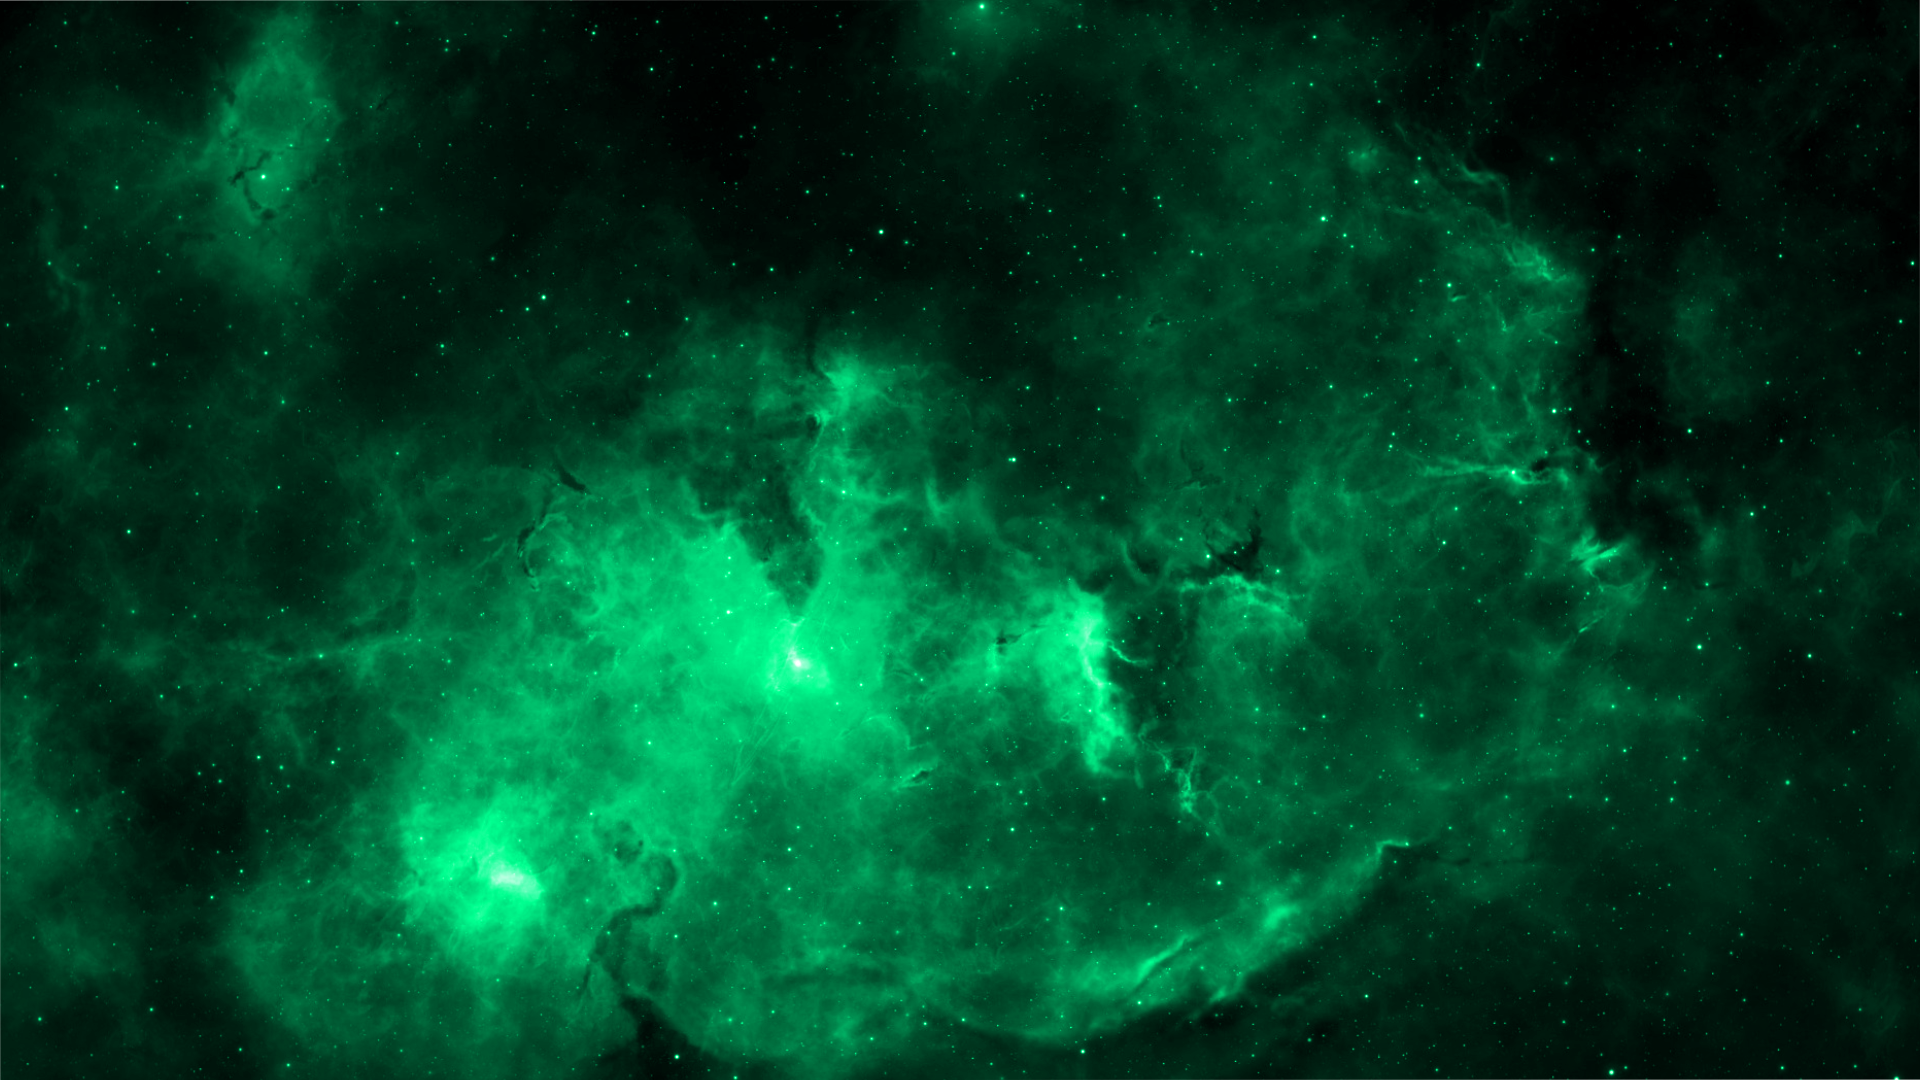
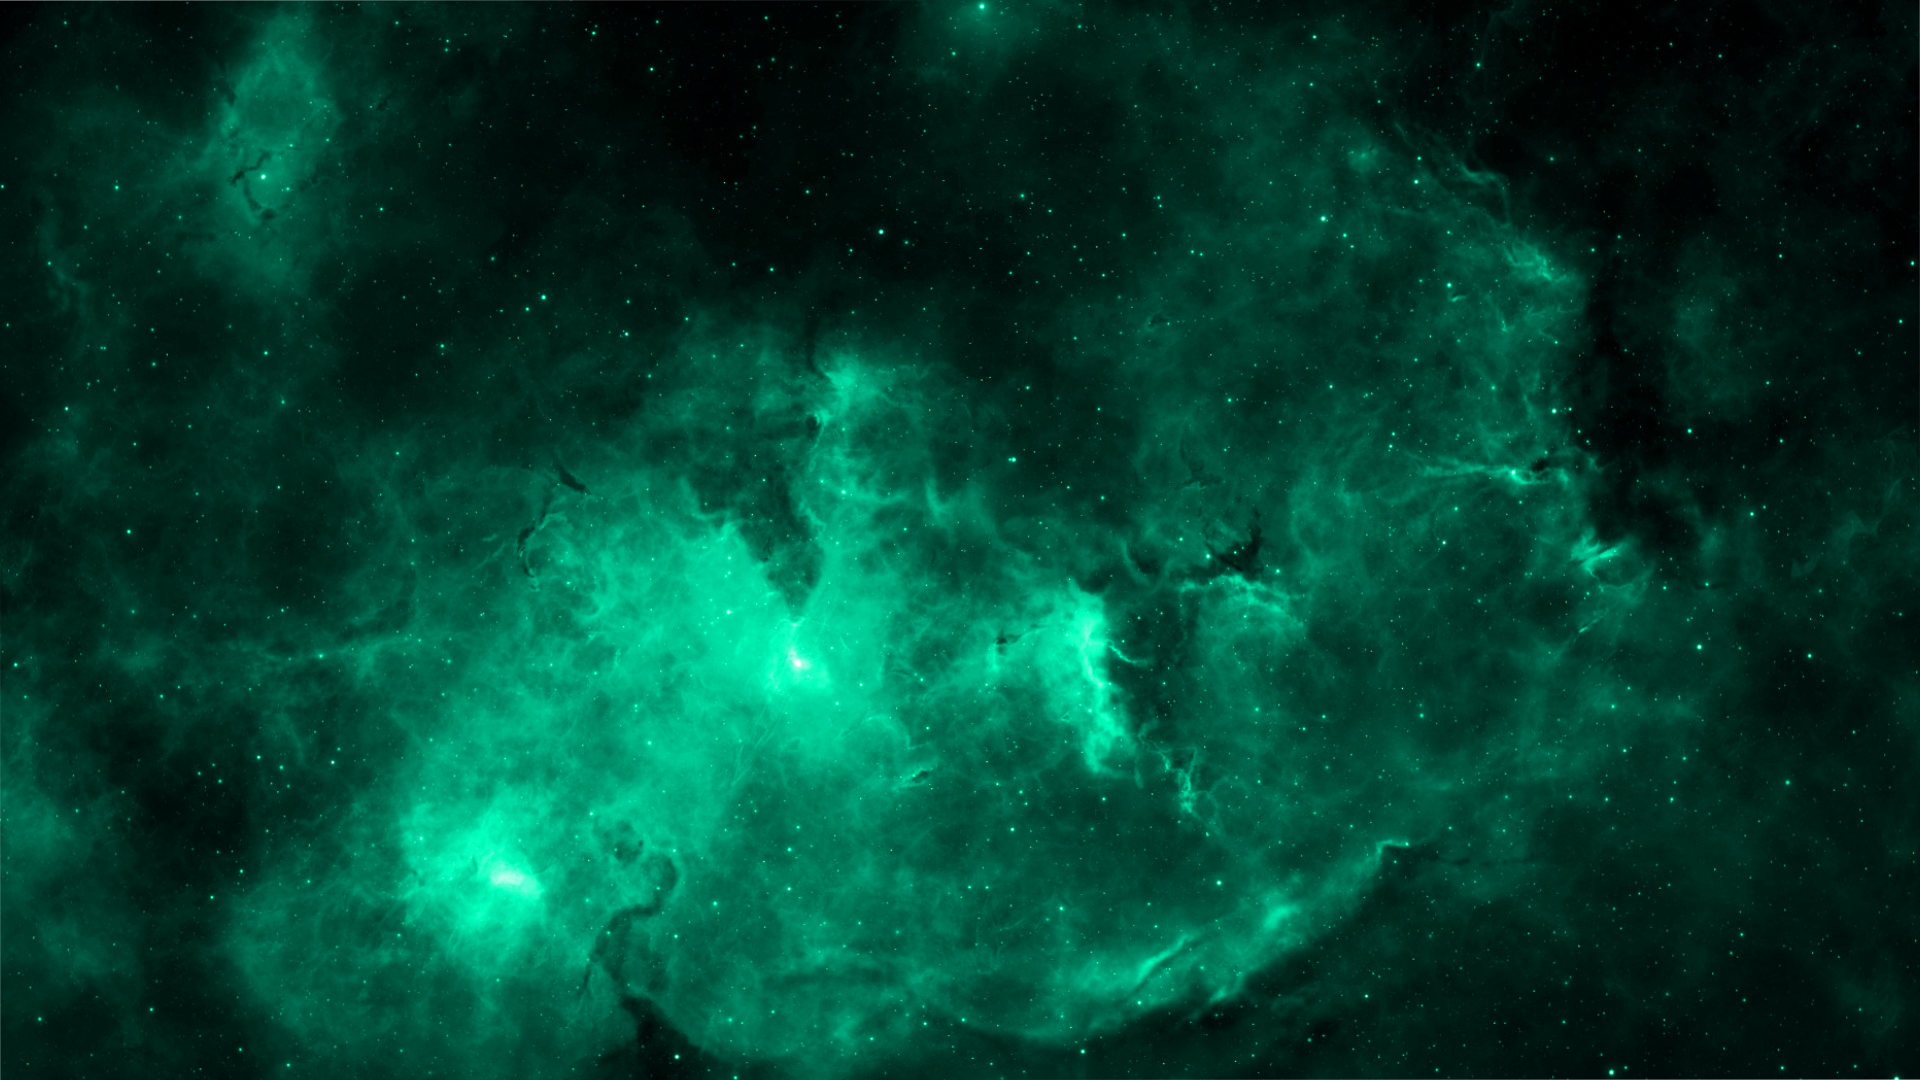
Improved Image by making it more blue-green

diff --git a/index.html b/index.html
@@ -13,15 +13,14 @@
         <a href="Gamedesign.html"><i class="fa fa-gamedesign">Gamedesign</i></a>
         <a href="Contact.html"><i class="fa fa-contact">Contact</i></a>
       </div>
-<h1>Simon Verhoeff</h1>
-<p>I'm a student at ROC van Twente Enschede.</p>
-<div>
-    <p>I work for the government whenever they need a cool dude to work for them B)</p>
-    
-</div>
+
 
 <div class="main-panel">
-    <p>Lol</p>
+    <h1>Simon Verhoeff</h1>
+    <p>I'm a student at ROC van Twente Enschede.</p>
+    <div>
+        <p>I work for the government whenever they need a cool dude to work for them B)</p>
+    </div>
 </div>
 
 </body>

diff --git a/styles.css b/styles.css
@@ -52,7 +52,7 @@ body
   background-color: #646464;
   width: 100%;
   height: 200%;
-  padding-bottom: 30%;
+  padding-bottom: 33%;
 }
 
 h1
